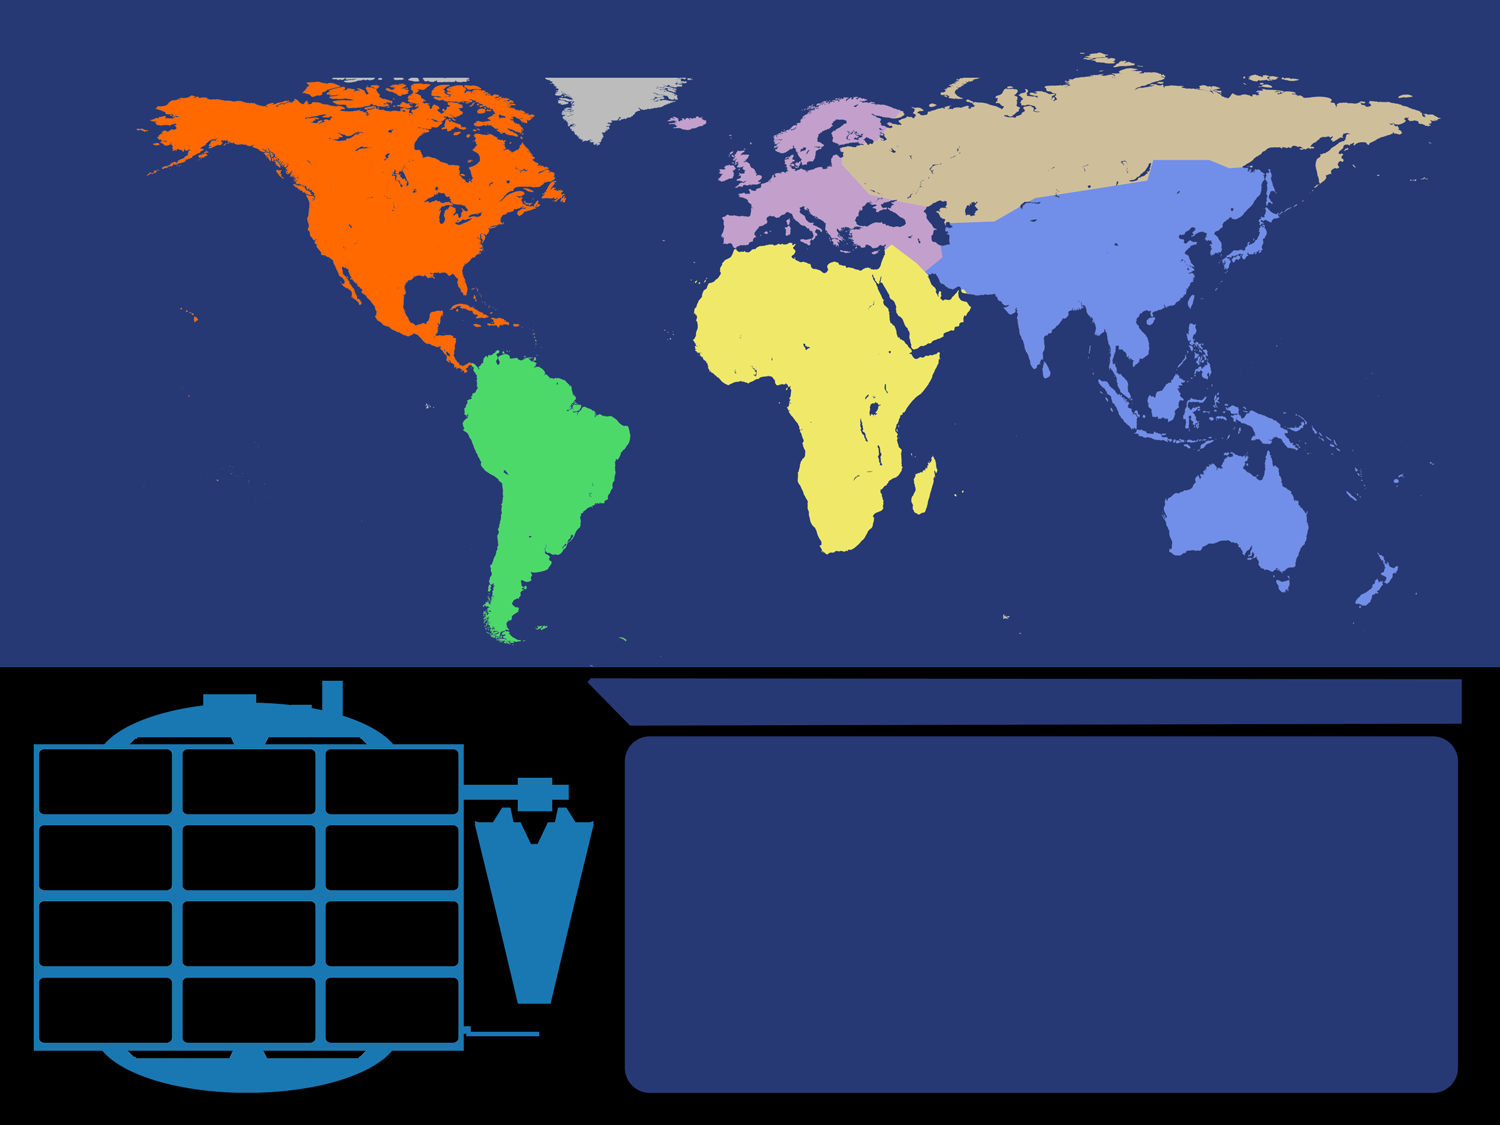
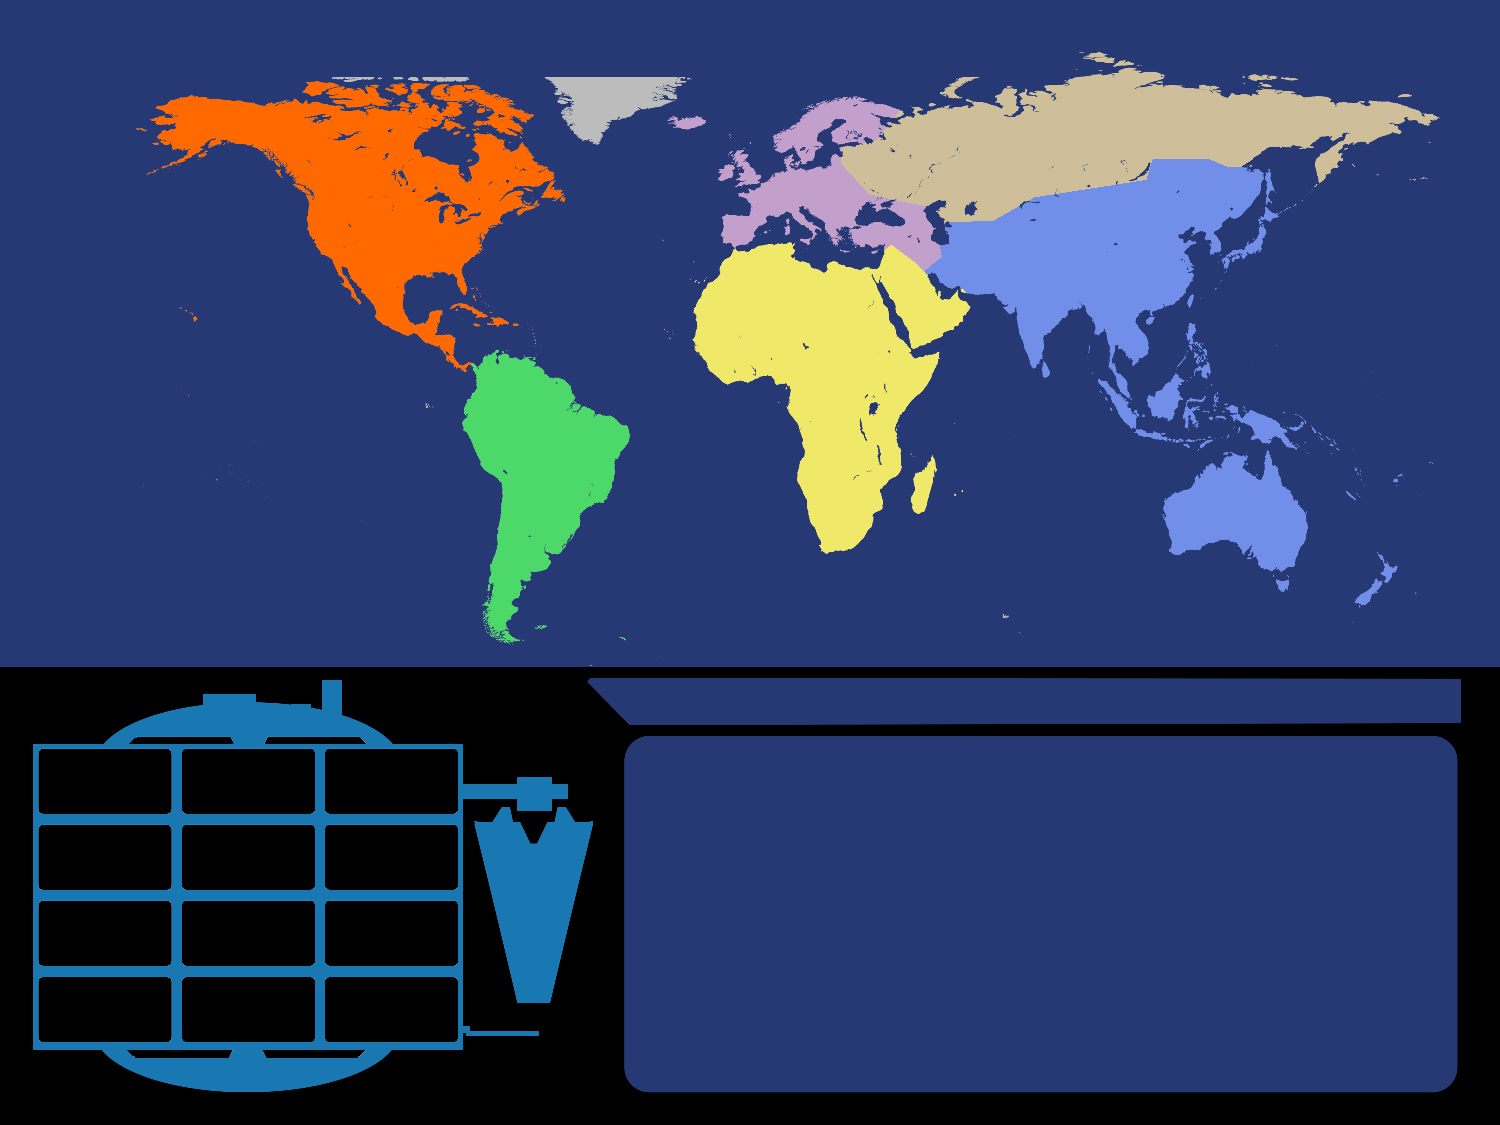
Implemented auto-generation of region-outlines.

diff --git a/src/proto/view/WorldView.java b/src/proto/view/WorldView.java
@@ -6,17 +6,10 @@ import java.awt.Color;
 import java.awt.Graphics2D;
 import java.awt.Image;
 import java.awt.image.BufferedImage;
-import proto.*;
-import proto.common.Kind;
-import proto.game.person.Ability;
-import proto.game.person.Person;
-import proto.game.scene.Scene;
-import proto.game.world.Assignment;
-import proto.game.world.Base;
-import proto.game.world.Blueprint;
-import proto.game.world.Nation;
-import proto.game.world.Room;
-import proto.game.world.World;
+import proto.common.*;
+import proto.game.person.*;
+import proto.game.scene.*;
+import proto.game.world.*;
 import proto.util.*;
 
 
@@ -34,7 +27,8 @@ public class WorldView {
   Room   selectedRoom;
   Object lastSelected;
   
-  Image mapImage, alertMarker, selectCircle, constructMark;
+  RegionsMapView mapView = new RegionsMapView();
+  Image alertMarker, selectCircle, constructMark;
   
   
   public WorldView(World world) {
@@ -44,34 +38,34 @@ public class WorldView {
   
   
   void loadMedia() {
-    mapImage     = Kind.loadImage(IMG_DIR+"world_map_image.png");
-    alertMarker  = Kind.loadImage(IMG_DIR+"alert_symbol.png"   );
-    selectCircle = Kind.loadImage(IMG_DIR+"select_circle.png"  );
+    mapView.loadMapImages(IMG_DIR+"world_map_image.png");
+    alertMarker   = Kind.loadImage(IMG_DIR+"alert_symbol.png");
+    selectCircle  = Kind.loadImage(IMG_DIR+"select_circle.png");
     constructMark = Kind.loadImage(Blueprint.IMG_DIR+"under_construction.png");
   }
   
 
   void renderTo(Surface surface, Graphics2D g) {
     Nation nations[] = world.nations();
-    
-    
+    mapView.attachOutlinesFor(nations);
+    Image mapImage = mapView.keyImage;
     //
     //  Draw the background image first!
     g.drawImage(mapImage, 0, 0, surface.getWidth(), surface.getHeight(), null);
     Nation nationHovered = null;
     Person personHovered = null;
-    
     //
     //  Then draw the nations of the world on the satellite map.
     int viewWide = surface.getWidth(), viewHigh = surface.getHeight();
     float mapWRatio = 1, mapHRatio = 1;
-    mapWRatio *= mapImage.getWidth (null) * 1f / viewWide;
-    mapHRatio *= mapImage.getHeight(null) * 1f / viewHigh;
+    mapWRatio *= (mapImage.getWidth (null) * 1f) / viewWide;
+    mapHRatio *= (mapImage.getHeight(null) * 1f) / viewHigh;
     
     int mX = surface.mouseX, mY = surface.mouseY;
     mX *= mapWRatio;
     mY *= mapHRatio;
     int pixVal = ((BufferedImage) mapImage).getRGB(mX, mY);
+    
     for (Nation n : nations) if (n.region.view.colourKey == pixVal) {
       nationHovered = n;
     }
@@ -132,6 +126,9 @@ public class WorldView {
       
       if (surface.mouseIn(x, y, size, size)) {
         personHovered = p;
+        g.drawImage(selectCircle, x, y, size, size, null);
+      }
+      if (selectedPerson == p) {
         g.drawImage(selectCircle, x, y, size, size, null);
       }
       
@@ -214,10 +211,11 @@ public class WorldView {
     Nation n, Surface surface, Graphics2D g, float mapWRatio, float mapHRatio
   ) {
     if (n == null || n.region.view.outline == null) return;
+    
     RegionView r = n.region.view;
     int
-      x = (int) (r.outlineX / mapWRatio),
-      y = (int) (r.outlineY / mapHRatio),
+      x = (int) ((r.outlineX / mapWRatio) + 0.5f),
+      y = (int) ((r.outlineY / mapHRatio) + 0.5f),
       w = (int) (r.outline.getWidth (null) / mapWRatio),
       h = (int) (r.outline.getHeight(null) / mapHRatio);
     g.drawImage(r.outline, x, y, w, h, null);

diff --git a/src/proto/view/RegionsMapView.java b/src/proto/view/RegionsMapView.java
@@ -1,0 +1,67 @@
+
+
+package proto.view;
+import proto.common.*;
+import proto.game.world.*;
+import proto.util.*;
+
+import java.awt.*;
+import java.awt.image.*;
+
+
+
+public class RegionsMapView {
+  
+  
+  BufferedImage keyImage;
+  RegionView attached[];
+  
+  
+  void loadMapImages(String keyImageName) {
+    keyImage = (BufferedImage) Kind.loadImage(keyImageName);
+  }
+  
+  
+  void attachOutlinesFor(Nation... nations) {
+    if (this.attached != null) return;
+    
+    attached = new RegionView[nations.length];
+    for (int i = attached.length; i-- > 0;) {
+      attached[i] = nations[i].region.view;
+    }
+    
+    int imgWide = keyImage.getWidth(), imgHigh = keyImage.getHeight();
+    int pixVals[] = keyImage.getRGB(0, 0, imgWide, imgHigh, null, 0, imgWide);
+    int fills = new Color(1, 1, 1, 0.5f).getRGB();
+    
+    I.say("Attaching outlines...");
+    for (Coord c : Visit.grid(0, 0, imgWide, imgHigh, 1)) {
+      int pixVal = pixVals[(c.y * imgWide) + c.x];
+      for (RegionView r : attached) if (r.colourKey == pixVal) {
+        if (r.bounds == null) { r.bounds = new Box2D(c.x, c.y, 0, 0); }
+        else r.bounds.include(c.x, c.y, 0);
+        break;
+      }
+    }
+    
+    for (RegionView r : attached) if (r.bounds != null && r.outline == null) {
+      I.say("  Bounds for "+r.name+" are: "+r.bounds);
+      int w = (int) (r.bounds.xdim() + 1), h = (int) (r.bounds.ydim() + 1);
+      r.outline  = new BufferedImage(w, h, BufferedImage.TYPE_INT_ARGB);
+      r.outlineX = (int) r.bounds.xpos();
+      r.outlineY = (int) r.bounds.ypos();
+      r.centerX  = r.outlineX + (w / 2);
+      r.centerY  = r.outlineY + (h / 2);
+    }
+    for (Coord c : Visit.grid(0, 0, imgWide, imgHigh, 1)) {
+      int pixVal = pixVals[(c.y * imgWide) + c.x];
+      for (RegionView r : attached) if (r.colourKey == pixVal) {
+        r.outline.setRGB(c.x - r.outlineX, c.y - r.outlineY, fills);
+      }
+    }
+  }
+}
+
+
+
+

diff --git a/src/proto/game/world/Region.java b/src/proto/game/world/Region.java
@@ -37,29 +37,29 @@ public class Region extends Index.Entry implements Session.Saveable {
   
   static {
     NA.cities = new String[] { "Toronto", "Metropolis", "Gotham" };
-    NA.view.loadOutline("NA_outline.png", -38656, 136, 82);
+    NA.view.attachColourKey(-38656, "NA");
     NA.defaultFunding = 200 ;
     NA.defaultTrust   = 0.5f;
     NA.defaultMember  = true;
     
     SA.cities = new String[] { "Brazilia", "Buenos Aires", "Atlantis"};
-    SA.view.loadOutline("SA_outline.png", -11740822, 463, 337);
+    SA.view.attachColourKey(-11740822, "SA");
     SA.defaultFunding = 150;
     
     AF.cities = new String[] { "Capetown", "Cairo", "Timbuktu" };
-    AF.view.loadOutline("AF_outline.png", -989079, 665, 243);
+    AF.view.attachColourKey(-989079, "AF");
     AF.defaultFunding = 120;
     
     EU.cities = new String[] { "London", "Paris", "Themyscira" };
-    EU.view.loadOutline("EU_outline.png", -3956789, 663, 96);
+    EU.view.attachColourKey(-3956789, "EU");
     EU.defaultFunding = 180;
     
     SB.cities = new String[] { "Moscow", "Leningrad", "Berlin" };
-    SB.view.loadOutline("RU_outline.png", -3162470, 843, 54);
+    SB.view.attachColourKey(-3162470, "SB");
     SB.defaultFunding = 150;
     
     OC.cities = new String[] { "Perth", "Singapore", "Tokyo" };
-    OC.view.loadOutline("OC_outline.png", -9335063, 926, 160);
+    OC.view.attachColourKey(-9335063, "OC");
     OC.defaultFunding = 150;
   }
   

diff --git a/src/proto/view/RegionView.java b/src/proto/view/RegionView.java
@@ -1,29 +1,35 @@
 
 
 package proto.view;
-import java.awt.Image;
-
-import proto.common.Kind;
+import proto.util.*;
+import java.awt.*;
+import java.awt.image.*;
 
 
 
 public class RegionView {
   
   
+  String name;
   int colourKey;
-  Image outline;
+  Box2D bounds = null;
+  BufferedImage outline;
   int outlineX, outlineY, centerX, centerY;
-
   
   
-  public void loadOutline(String imgFile, int colourKey, int offX, int offY) {
-    outline = Kind.loadImage(WorldView.IMG_DIR+imgFile);
-    this.colourKey = colourKey;
-    outlineX = offX;
-    outlineY = offY;
-    if (outline != null) {
-      centerX = offX + (outline.getWidth (null) / 2);
-      centerY = offY + (outline.getHeight(null) / 2);
-    }
+  public void attachColourKey(int key, String name) {
+    this.name      = name;
+    this.colourKey = key ;
   }
 }
+
+
+
+
+
+
+
+
+
+
+

diff --git a/src/proto/common/Kind.java b/src/proto/common/Kind.java
@@ -1,13 +1,12 @@
 
 
 package proto.common;
-import java.awt.*;
-import java.io.File;
-import javax.imageio.ImageIO;
-
 import proto.game.person.Ability;
 import proto.game.person.Equipped;
 import proto.util.*;
+import java.awt.*;
+import java.io.File;
+import javax.imageio.ImageIO;
 
 
 
